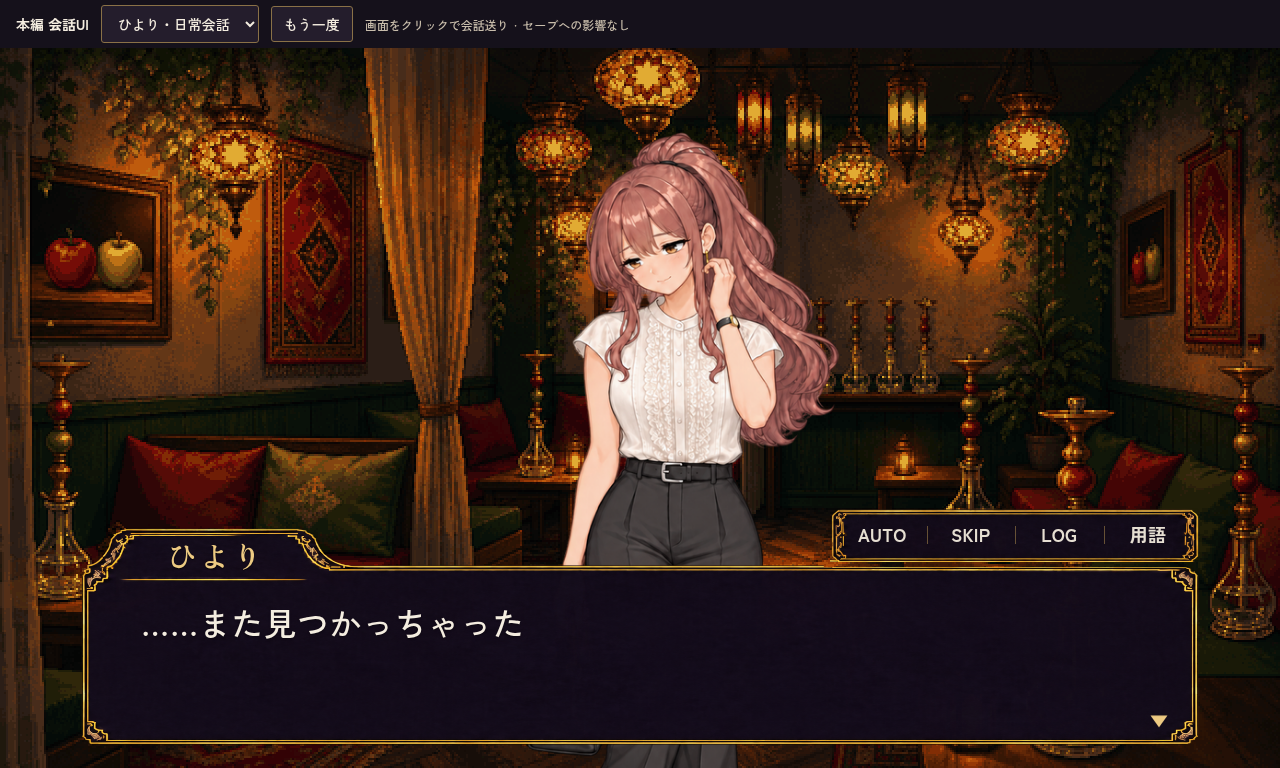
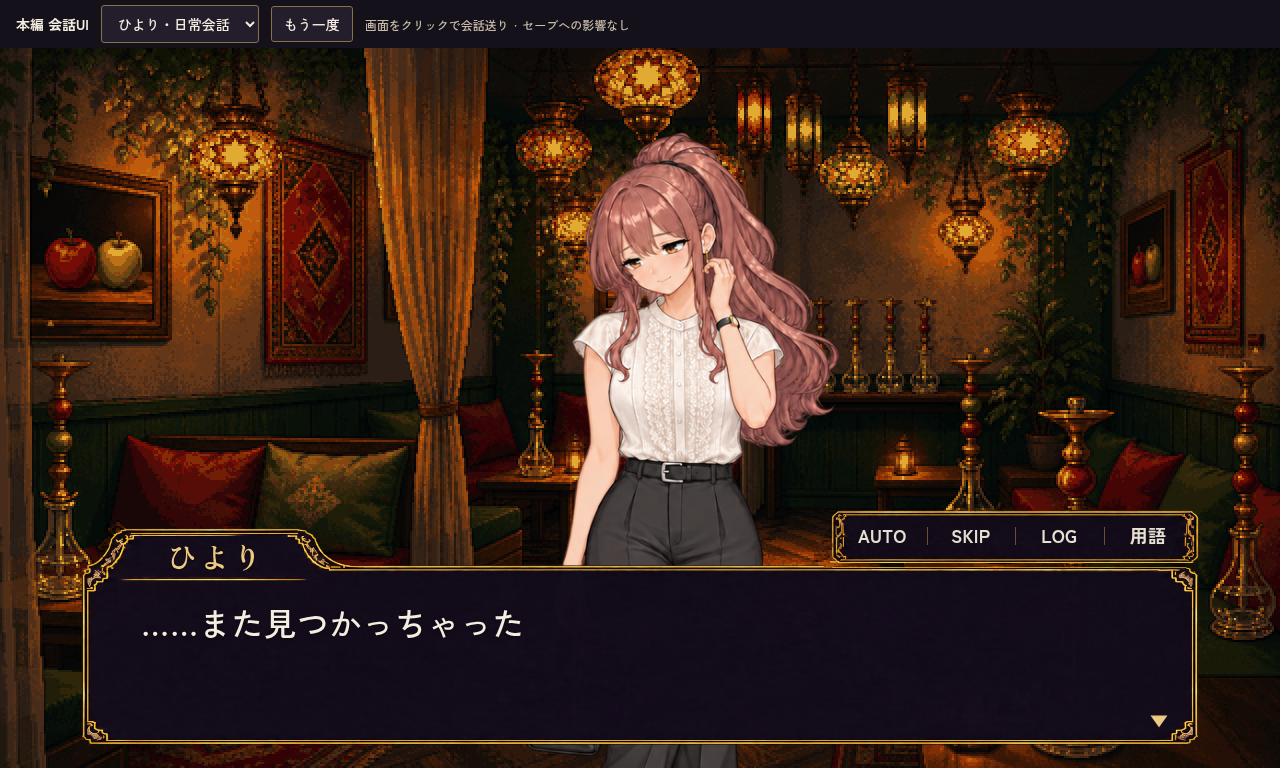
fix(vn): lower speaker name and control frame one final pixel

Changed region(s): [[0.6562, 0.6562, 0.9375, 0.75], [0.125, 0.7188, 0.1875, 0.75]]

diff --git a/remake/css/vn-lounge.css b/remake/css/vn-lounge.css
@@ -33,7 +33,7 @@
 }
 .vn-box .vn-name {
   left: 31px;
-  top: -31px;
+  top: -30px;
   width: 210px;
   min-width: 0;
   height: 37px;
@@ -59,7 +59,7 @@
 }
 .vn-controls {
   right: 80px;
-  bottom: 206px; /* 本文上辺から6px。枠線を重ねない。 */
+  bottom: 205px; /* 本文上辺から5px。枠線を重ねない。 */
   width: 370px;
   height: 54px;
   padding: 5px 8px;

diff --git a/docs/qa/conversation-ui-741/README.md b/docs/qa/conversation-ui-741/README.md
@@ -1,13 +1,13 @@
 # 会話UIの本編適用と操作プレビュー (#741)
 
-ユーザーが承認した墨紫・細い金縁・一体型の名前欄・横一体の操作バーを本編共通VNに適用。本文の998px幅、178pxの枠高、改行・改ページ処理は維持。操作バーの下辺と本文上辺は6px離す。名前は同梱のZen Old Mincho Bold（OFL）で可変表示し、長い呼び名は文字数に合わせて縮小する。その他のパネルやゲームの台本は変更しない。
+ユーザーが承認した墨紫・細い金縁・一体型の名前欄・横一体の操作バーを本編共通VNに適用。本文の998px幅、178pxの枠高、改行・改ページ処理は維持。操作バーの下辺と本文上辺は5px離す。名前は同梱のZen Old Mincho Bold（OFL）で可変表示し、長い呼び名は文字数に合わせて縮小する。その他のパネルやゲームの台本は変更しない。
 
 `/remake/conversation-preview.html` は本編のengine.jsを読み、同じCSS/DOMで会話を再生する。保存済みデータは読み書きしない。ひよりは既存日常台本（冒頭の地の文を省略）、話者切替・地の文・選択肢はUI確認用例文。公開ゲーム本体のデプロイではなく、別URLの確認用ページ。
 
-本編プレビュー確認後の調整: 名前の文字を4px下へ、操作バーを4px下へ移動。本文枠からの間隔を6pxへ変更。AUTOとSKIPは排他にし、相手のモードを解除してからONにする。CtrlキーによるSKIPも同様。ボタンのaria-pressedを実状態と同期。
+本編プレビュー確認後の調整: 名前の文字を合計5px下へ、操作バーを合計5px下へ移動。本文枠からの間隔を5pxへ変更。AUTOとSKIPは排他にし、相手のモードを解除してからONにする。CtrlキーによるSKIPも同様。ボタンのaria-pressedを実状態と同期。
 
 検証（Chromium、2026-10-20）:
-- `CHROME_EXECUTABLE_PATH=/usr/lib/chromium/chromium BASE_URL=http://127.0.0.1:8134/remake/ node remake/test/browser/conversation_ui.mjs` — PC1280×768／横持ち844×438でPASS。6pxの間隔、本心の枠内表示、AUTO/SKIPの双方向排他・Ctrlキーでの排他と解除・OFF切替・LOG・用語集・選択・名前切替・地の文、保存不変、JSエラー／HTTP失敗なし。
+- `CHROME_EXECUTABLE_PATH=/usr/lib/chromium/chromium BASE_URL=http://127.0.0.1:8134/remake/ node remake/test/browser/conversation_ui.mjs` — PC1280×768／横持ち844×438でPASS。5pxの間隔、本心の枠内表示、AUTO/SKIPの双方向排他・Ctrlキーでの排他と解除・OFF切替・LOG・用語集・選択・名前切替・地の文、保存不変、JSエラー／HTTP失敗なし。
 - 公開用に絞ったファイル一式でも同じ2ケースがPASS。
 - `node remake/test/vn_visual_readiness.mjs` — 4ケースすべてPASS（PC／横持ちの表情読み込み待ち、CGフェードと選択停止、SKIP中の場面転換）。
 - 本編index.htmlを起動して日常会話を再生。DS表示も1280×720／844×390／390×844で名前欄・操作バーが画面内に収まることを確認。

diff --git a/assets/ui/vn-lounge/README.md b/assets/ui/vn-lounge/README.md
@@ -2,6 +2,6 @@
 
 ユーザー採用の会話UIを本編の可変文字・操作に分離。`approved-reference.png` は承認済みの文字入り原画、`empty-source.png` はその文字・区切り・次へ印だけを除くよう画像生成で編集した原画。ツール: OpenAI image_gen、2026-10-20。外側は透過。
 
-実装先: `remake/css/vn-lounge.css`。`remake/img/ui/vn-lounge/` のSVGは原画をWebP可逆圧縮して内包し、切り出し領域だけを表示。本文・名前・操作文字・次へ印は本編DOM。本文の幅・高さ・改ページ仕様を維持する。操作枠は本文上辺から6px離す（本編プレビュー確認後、4px下げた位置）。
+実装先: `remake/css/vn-lounge.css`。`remake/img/ui/vn-lounge/` のSVGは原画をWebP可逆圧縮して内包し、切り出し領域だけを表示。本文・名前・操作文字・次へ印は本編DOM。本文の幅・高さ・改ページ仕様を維持する。操作枠は本文上辺から5px離す（本編プレビュー確認後、合計5px下げた最終位置）。
 
 確認: `/remake/conversation-preview.html` は本編エンジンを使用。保存データの読み書きはしない。ひよりの場面は既存台本 `hiyori_shop_repeat_0` の導入の地の文を省いて再生し、ほか3場面はUI確認用の例文。物語の台本は変更しない。
